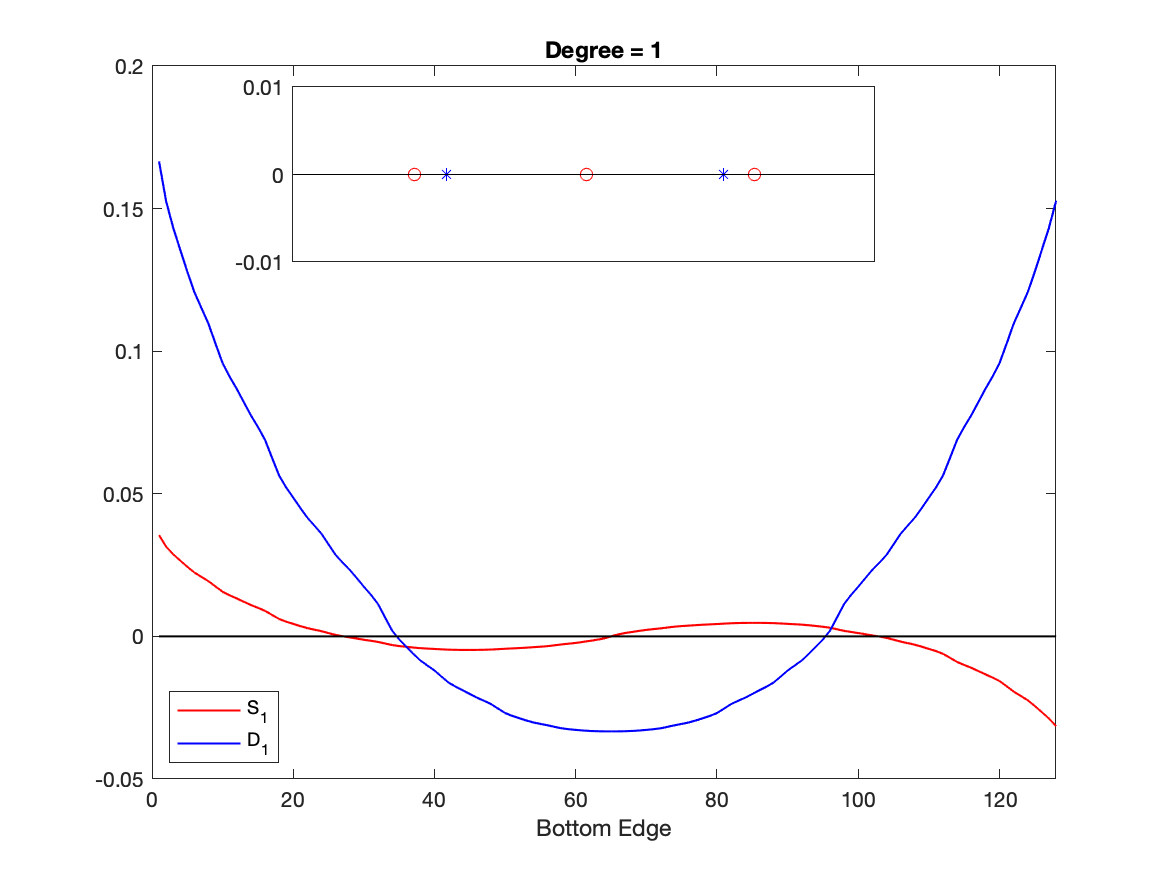
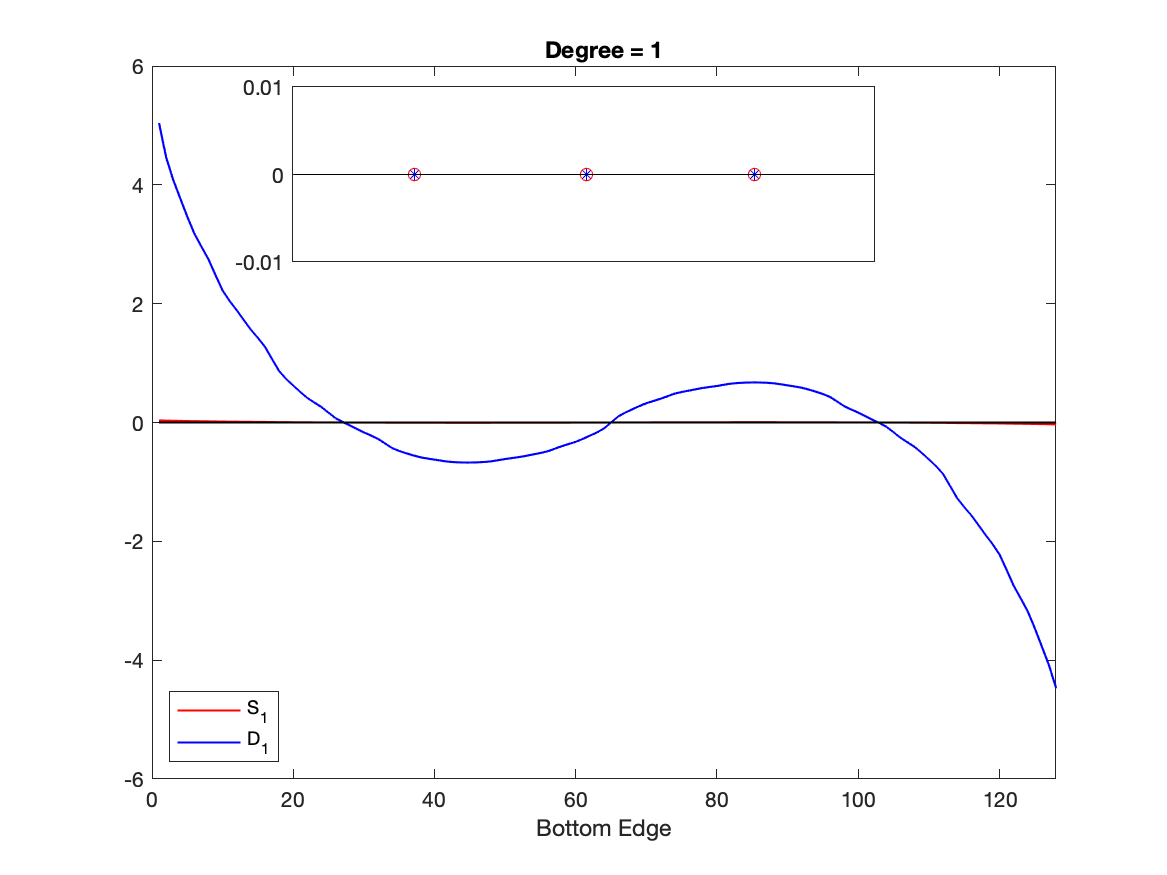
Final Changes
Pushing final changes

diff --git a/matlab/original/interlacing.m b/matlab/original/interlacing.m
@@ -4,8 +4,8 @@ bottomedgeindices = SGedge23(level);
 load sob20coefs ops
 W1 = ops;
 
-%load leg20coefs ops
-%W2 = ops;
+load leg20coefs ops
+W2 = ops;
 
 % load sobolevsymmetric20 sobsymmtricops20
 % W2 = sobsymmtricops20;
@@ -13,14 +13,14 @@ W1 = ops;
 m=level;
 %Generating legendre values
 %coefflegendre=W2(deg,:);
-%coefflegendre=W2(deg+1,:);
-%legendrevalues=zeros(3^(m+1),1);
-legendrevalues = SGorthoPolyssk(T,deg);
-% for k=0:deg
-%     
-%         legendrevalues = legendrevalues + coefflegendre(k+1)*T(:,k+1,3);
-%     
-% end
+coefflegendre=W2(deg+1,:);
+legendrevalues=zeros(3^(m+1),1);
+%legendrevalues = SGorthoPolyspk(T,deg);
+for k=0:deg
+    
+        legendrevalues = legendrevalues + coefflegendre(k+1)*T(:,k+1,3);
+    
+end
 
 %Generating sobolev values 
 coeffsobolev=W1(deg,:);
@@ -103,32 +103,38 @@ z=zeros(size(bottomedgeindices));
 % hold on
 % plot(real(edgelegendre), 'b-','LineWidth',1,'DisplayName','Legendre');
 
-plot(real(edgesobolev), 'r-','LineWidth',1,'DisplayName',strcat("S_{",num2str(deg-1),"}"));
+plot(1000*real(edgesobolev), 'r-','LineWidth',1,'DisplayName','Sobolev');
 hold on
-plot(real(edgelegendre), 'b-','LineWidth',1,'DisplayName',strcat("D_{",num2str(deg-1),"}"));
+plot(real(edgelegendre), 'b-','LineWidth',1,'DisplayName','Legendre');
 
 
 plot(z,'LineWidth',1,'Color','Black','Handlevisibility','off');
 set(gca, 'XLim',[0,max(size(bottomedgeindices))-1]);
 
 ax1 = gca; 
-legend('Location','SouthWest');
-title(strcat("Degree = ",num2str(deg-1))); 
-xlabel('Bottom Edge');
-ax2 = axes('Position',[0.25 0.7 0.5 0.2]);
+set(ax1,'FontSize',15);
+set(ax1,'TickLabelInterpreter','latex');
+legend('Location','SouthWest','Interpreter','latex');
+title(strcat("Degree = ",num2str(deg-1)),'Interpreter','latex','FontSize',40); 
+xlabel('Bottom Edge', 'Interpreter','latex');
+ax2 = axes('Position',[0.25 0.5 0.5 0.2]);
+
 
 box on;
     plot(w(1,:),x,'b*','DisplayName',strcat(legstring,num2str(deg),'}'));
     hold on
     plot(w(2,:),x,'ro','DisplayName',strcat(sobstring,num2str(deg),'}'));
     plot(1:max(size(x)),x,'k-','HandleVisibility','off');
+    title('Zeroes','Interpreter','latex');
     set(gca,'XLim',[0,max(size(x))]);
     set(gca,'YLim',[-0.01,0.01]);
+    set(gca,'FontSize',15);
+    set(ax2,'TickLabelInterpreter','latex');
     %legend({strcat(legstring,num2str(deg),'}'),strcat(sobstring,num2str(deg),'}'),'zero'},'Location','EastOutside');
     %legend();
 
     set(ax2,'XTick',[]);
 
-saveas(gca,strcat('sd',num2str(deg-1)),'png');
+%saveas(gca,strcat('sd',num2str(deg-1)),'png');
     %set(gca,'YTick',-1:4:3);
 

diff --git a/matlab/original/SGplotsOverview.m b/matlab/original/SGplotsOverview.m
@@ -1,6 +1,6 @@
 function SGplotsOverview(T)
 
-Num=19;
+Num=5;
 
 %This reads in the values of the polynomials Pj for j=0,...,19
 %T is a large matrix with the values of the polynomials up to level m=7
@@ -46,7 +46,7 @@ orthoplotspk(T,Num);
 
 %Here I call interlacing function 
 
-% for i = 1:Num 
-%    
-%     interlacing(i,7,T)
-% end
+for i = 1:Num 
+   
+    interlacing(i,7,T)
+end

diff --git a/matlab/original/getOmegas3.m b/matlab/original/getOmegas3.m
@@ -2,7 +2,7 @@ function W = getOmegas3(level)
 %This function  reads in the values of the coefficents of the Pj for the
 %normalized antisymmetric OP (level indicates the number of OP)
 % flag indicates whether to take sobolev or legendre
-load sob20coefs
+load leg20coefs ops
 W = ops;
 
 % load leg20coefs ops
